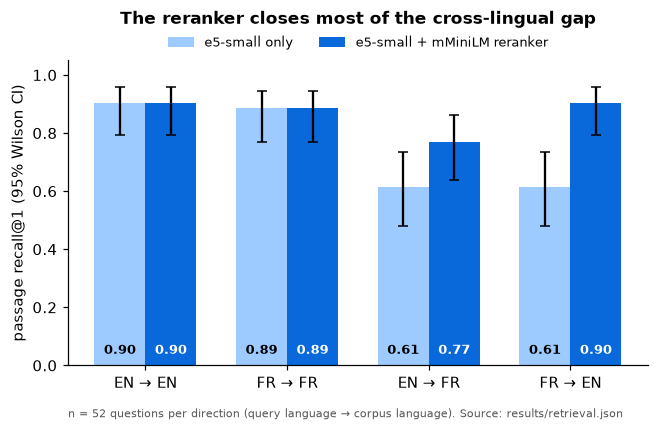
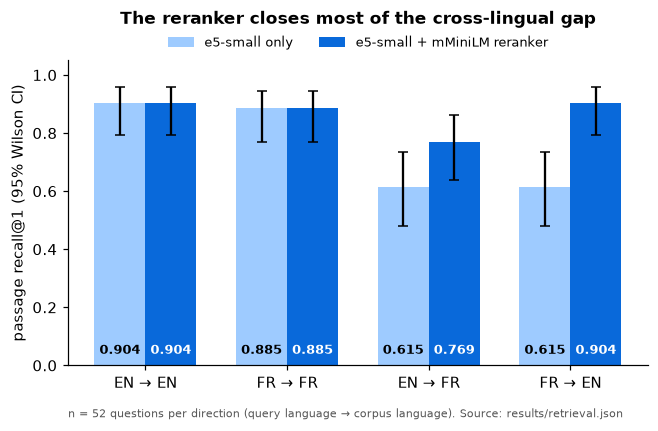
Use retrieval.json's 0.615 for EN↔FR R@1 everywhere
README and the recall@1 figure mixed 0.62, 0.61, and 0.615 for the
same EN→FR / FR→EN no-rerank passage R@1. Standardize on the exact
value from results/retrieval.json (three decimals), matching tables.md.

diff --git a/scripts/make_figures.py b/scripts/make_figures.py
@@ -47,7 +47,7 @@ def fig_retrieval():
     for off, suf, col, lab in [(-w / 2, "", LIGHT, "e5-small only"), (w / 2, " +rerank", BLUE, "e5-small + mMiniLM reranker")]:
         v = [R["recall"][d + suf]["passage_R@1"] for d in dirs]; ci = [wilson(p, n) for p in v]
         ax.bar(x + off, v, w, color=col, label=lab, yerr=[[p - c[0] for p, c in zip(v, ci)], [c[1] - p for p, c in zip(v, ci)]], capsize=3)
-        for xi, p in zip(x + off, v): ax.text(xi, 0.04, f"{p:.2f}", ha="center", fontsize=8.5, color="white" if col == BLUE else "black", fontweight="bold")
+        for xi, p in zip(x + off, v): ax.text(xi, 0.04, f"{p:.3f}", ha="center", fontsize=8.5, color="white" if col == BLUE else "black", fontweight="bold")
     ax.set_xticks(x); ax.set_xticklabels([d.replace("->", " → ") for d in dirs]); ax.set_ylim(0, 1.05)
     ax.set_ylabel("passage recall@1 (95% Wilson CI)"); ax.legend(frameon=False, fontsize=8.5, loc="upper center", ncol=2, bbox_to_anchor=(.5, 1.12))
     ax.set_title("The reranker closes most of the cross-lingual gap", pad=24)

diff --git a/README.md b/README.md
@@ -5,7 +5,7 @@ An offline question-answering system over open Government of Canada pages in Eng
 ## At a glance
 | | TEST split (q27–q52 × EN/FR), numbers from `results/tables.md` |
 |---|---|
-| **Cross-lingual retrieval** | Passage R@1 EN→FR 0.62 → **0.77**, FR→EN 0.62 → **0.90** with the reranker (same-language: 0.88–0.90) |
+| **Cross-lingual retrieval** | Passage R@1 EN→FR 0.615 → **0.77**, FR→EN 0.615 → **0.90** with the reranker (same-language: 0.88–0.90) |
 | **Citation faithfulness** | Best: H (1.5B, few-shot, post-hoc) **0.66** [0.50, 0.79]; G (0.5B, mixed+rerank, post-hoc) 0.57 [0.47, 0.68] |
 | **Biggest lever** | Post-hoc attribution on 0.5B: **+0.37** [+0.26, +0.48]; few-shot on 0.5B: +0.30 [+0.19, +0.44] (paired bootstrap) |
 | **Abstention** | On their own, the few-shot configs answer 23–26 of 26 unanswerable test questions; the reranker gate refuses all of them at a 0.15 false-refusal rate |
@@ -41,7 +41,7 @@ Captured by `scripts/capture_demo.sh` into `docs/demo/ask_demo.txt` (stdout pipe
 
 ### Key results
 <p>
-<img src="docs/figures/retrieval_recall_at_1.png" width="44%" alt="Grouped bar chart of passage recall at 1 over 52 questions per direction, with 95 percent Wilson intervals. Same-language directions sit at 0.90 (EN to EN) and 0.89 (FR to FR) with or without reranking. Cross-lingual EN to FR rises from 0.61 to 0.77 with the reranker, and FR to EN from 0.61 to 0.90.">
+<img src="docs/figures/retrieval_recall_at_1.png" width="44%" alt="Grouped bar chart of passage recall at 1 over 52 questions per direction, with 95 percent Wilson intervals. Same-language directions sit at 0.90 (EN to EN) and 0.89 (FR to FR) with or without reranking. Cross-lingual EN to FR rises from 0.615 to 0.77 with the reranker, and FR to EN from 0.615 to 0.90.">
 <img src="docs/figures/faithfulness_by_config.png" width="54%" alt="Horizontal bar chart of TEST-split citation faithfulness for seven configs with 95 percent clustered-bootstrap intervals and uncited rates: A 0.43, B 0.59, H 0.66, D 0.00, E 0.30, F 0.20, G 0.57. Post-hoc configs H and G have an uncited rate of 0.">
 </p>
 
@@ -103,8 +103,8 @@ All tables are generated by `src/summarize.py` into [`results/tables.md`](result
 |---|---|---|---|
 | EN→EN | 0.90 [0.79, 0.96] | 0.90 [0.79, 0.96] | 0.98 / 1.00 |
 | FR→FR | 0.88 [0.77, 0.95] | 0.88 [0.77, 0.95] | 1.00 / 0.98 |
-| EN→FR | 0.62 [0.48, 0.74] | **0.77** [0.64, 0.86] | 0.92 / 0.92 |
-| FR→EN | 0.62 [0.48, 0.74] | **0.90** [0.79, 0.96] | 0.96 / 0.96 |
+| EN→FR | 0.615 [0.48, 0.74] | **0.77** [0.64, 0.86] | 0.92 / 0.92 |
+| FR→EN | 0.615 [0.48, 0.74] | **0.90** [0.79, 0.96] | 0.96 / 0.96 |
 
 The reranker closes most of the cross-lingual top-1 gap. The mixed EN+FR index behaves exactly like same-language retrieval, because e5 always ranks chunks in the query's language first.
 
